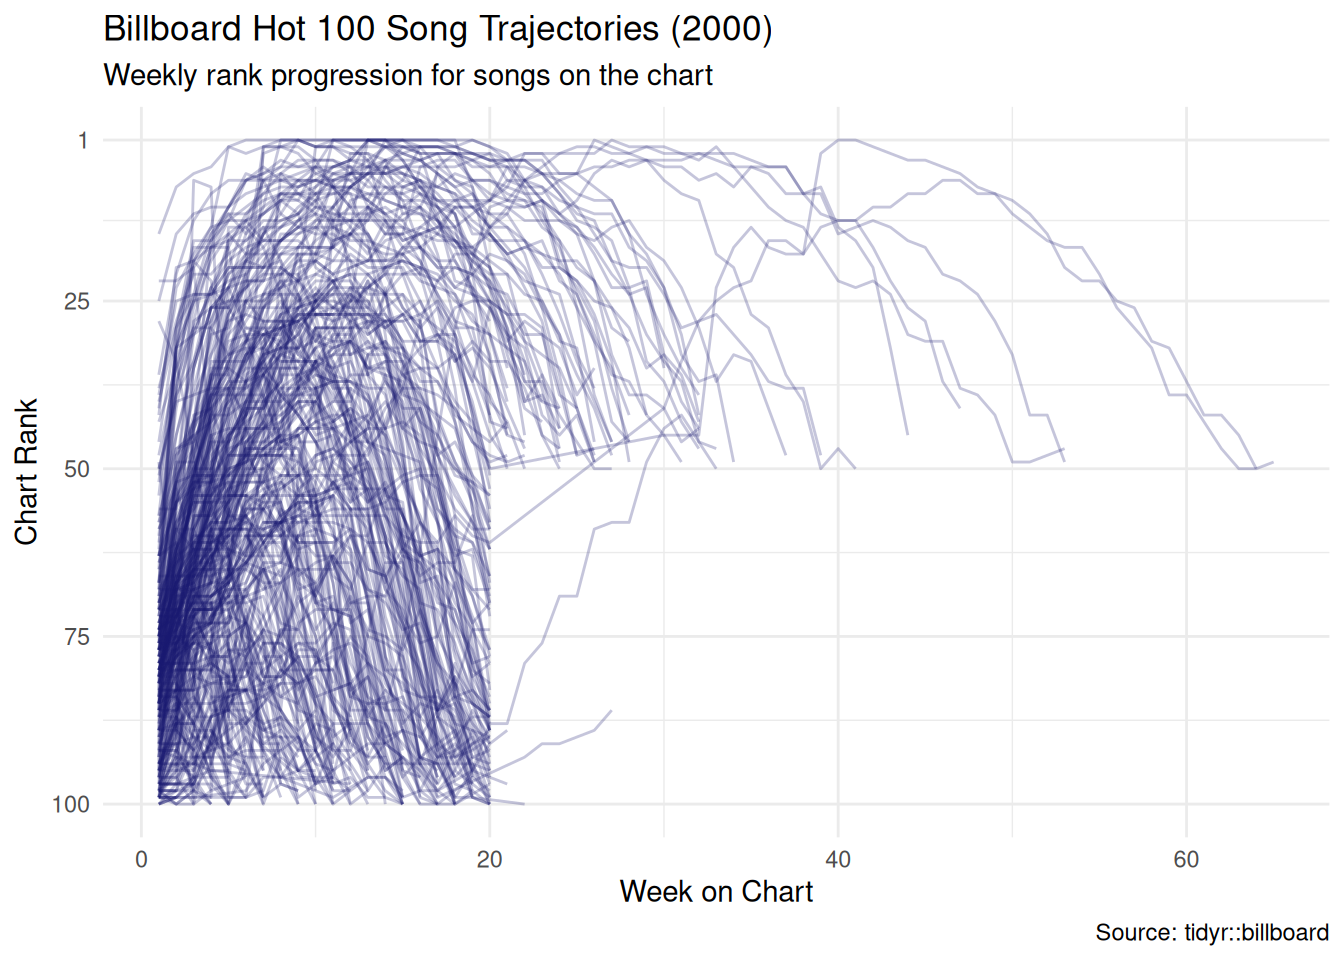
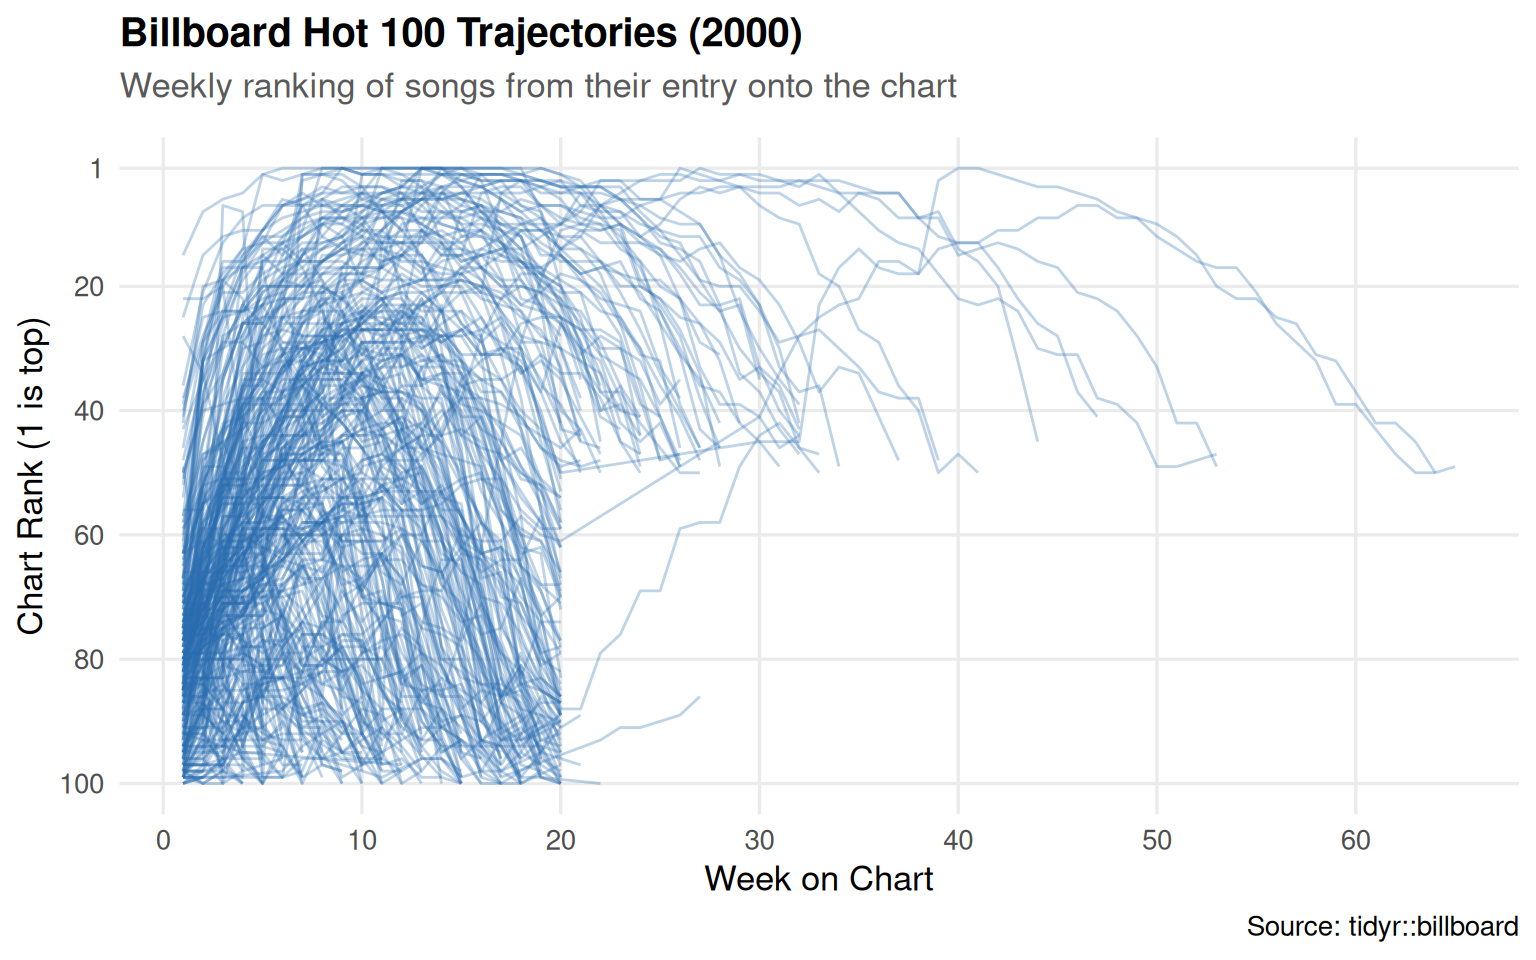
Built site for gh-pages

diff --git a/index.html b/index.html
@@ -26,41 +26,6 @@ ul.task-list li input[type="checkbox"] {
   margin: 0 0.8em 0.2em -1em; /* quarto-specific, see https://github.com/quarto-dev/quarto-cli/issues/4556 */ 
   vertical-align: middle;
 }
-/* CSS for syntax highlighting */
-html { -webkit-text-size-adjust: 100%; }
-pre > code.sourceCode { white-space: pre; position: relative; }
-pre > code.sourceCode > span { display: inline-block; line-height: 1.25; }
-pre > code.sourceCode > span:empty { height: 1.2em; }
-.sourceCode { overflow: visible; }
-code.sourceCode > span { color: inherit; text-decoration: inherit; }
-div.sourceCode { margin: 1em 0; }
-pre.sourceCode { margin: 0; }
-@media screen {
-div.sourceCode { overflow: auto; }
-}
-@media print {
-pre > code.sourceCode { white-space: pre-wrap; }
-pre > code.sourceCode > span { text-indent: -5em; padding-left: 5em; }
-}
-pre.numberSource code
-  { counter-reset: source-line 0; }
-pre.numberSource code > span
-  { position: relative; left: -4em; counter-increment: source-line; }
-pre.numberSource code > span > a:first-child::before
-  { content: counter(source-line);
-    position: relative; left: -1em; text-align: right; vertical-align: baseline;
-    border: none; display: inline-block;
-    -webkit-touch-callout: none; -webkit-user-select: none;
-    -khtml-user-select: none; -moz-user-select: none;
-    -ms-user-select: none; user-select: none;
-    padding: 0 4px; width: 4em;
-  }
-pre.numberSource { margin-left: 3em;  padding-left: 4px; }
-div.sourceCode
-  {   }
-@media screen {
-pre > code.sourceCode > span > a:first-child::before { text-decoration: underline; }
-}
 </style>
 
 
@@ -174,34 +139,11 @@ pre > code.sourceCode > span > a:first-child::before { text-decoration: underlin
 </header>
 
 
-<div class="cell">
-<div class="code-copy-outer-scaffold"><div class="sourceCode cell-code" id="cb1"><pre class="sourceCode r code-with-copy"><code class="sourceCode r"><span id="cb1-1"><a href="#cb1-1" aria-hidden="true" tabindex="-1"></a><span class="fu">library</span>(tidyverse)</span></code></pre></div><button title="Copy to Clipboard" class="code-copy-button"><i class="bi"></i></button></div>
-</div>
-<div class="cell">
-<div class="code-copy-outer-scaffold"><div class="sourceCode cell-code" id="cb2"><pre class="sourceCode r code-with-copy"><code class="sourceCode r"><span id="cb2-1"><a href="#cb2-1" aria-hidden="true" tabindex="-1"></a>billboard <span class="sc">|&gt;</span></span>
-<span id="cb2-2"><a href="#cb2-2" aria-hidden="true" tabindex="-1"></a>  <span class="fu">pivot_longer</span>(</span>
-<span id="cb2-3"><a href="#cb2-3" aria-hidden="true" tabindex="-1"></a>    <span class="at">cols =</span> <span class="fu">starts_with</span>(<span class="st">"wk"</span>),</span>
-<span id="cb2-4"><a href="#cb2-4" aria-hidden="true" tabindex="-1"></a>    <span class="at">names_to =</span> <span class="st">"week"</span>,</span>
-<span id="cb2-5"><a href="#cb2-5" aria-hidden="true" tabindex="-1"></a>    <span class="at">values_to =</span> <span class="st">"rank"</span>,</span>
-<span id="cb2-6"><a href="#cb2-6" aria-hidden="true" tabindex="-1"></a>    <span class="at">names_prefix =</span> <span class="st">"wk"</span>,</span>
-<span id="cb2-7"><a href="#cb2-7" aria-hidden="true" tabindex="-1"></a>    <span class="at">names_transform =</span> as.integer,</span>
-<span id="cb2-8"><a href="#cb2-8" aria-hidden="true" tabindex="-1"></a>    <span class="at">values_drop_na =</span> <span class="cn">TRUE</span></span>
-<span id="cb2-9"><a href="#cb2-9" aria-hidden="true" tabindex="-1"></a>  ) <span class="sc">|&gt;</span></span>
-<span id="cb2-10"><a href="#cb2-10" aria-hidden="true" tabindex="-1"></a>  <span class="fu">ggplot</span>(<span class="fu">aes</span>(<span class="at">x =</span> week, <span class="at">y =</span> rank, <span class="at">group =</span> track)) <span class="sc">+</span></span>
-<span id="cb2-11"><a href="#cb2-11" aria-hidden="true" tabindex="-1"></a>  <span class="fu">geom_line</span>(<span class="at">alpha =</span> <span class="fl">0.25</span>, <span class="at">color =</span> <span class="st">"midnightblue"</span>) <span class="sc">+</span></span>
-<span id="cb2-12"><a href="#cb2-12" aria-hidden="true" tabindex="-1"></a>  <span class="fu">scale_y_reverse</span>(<span class="at">breaks =</span> <span class="fu">c</span>(<span class="dv">1</span>, <span class="dv">25</span>, <span class="dv">50</span>, <span class="dv">75</span>, <span class="dv">100</span>)) <span class="sc">+</span></span>
-<span id="cb2-13"><a href="#cb2-13" aria-hidden="true" tabindex="-1"></a>  <span class="fu">labs</span>(</span>
-<span id="cb2-14"><a href="#cb2-14" aria-hidden="true" tabindex="-1"></a>    <span class="at">title =</span> <span class="st">"Billboard Hot 100 Song Trajectories (2000)"</span>,</span>
-<span id="cb2-15"><a href="#cb2-15" aria-hidden="true" tabindex="-1"></a>    <span class="at">subtitle =</span> <span class="st">"Weekly rank progression for songs on the chart"</span>,</span>
-<span id="cb2-16"><a href="#cb2-16" aria-hidden="true" tabindex="-1"></a>    <span class="at">x =</span> <span class="st">"Week on Chart"</span>,</span>
-<span id="cb2-17"><a href="#cb2-17" aria-hidden="true" tabindex="-1"></a>    <span class="at">y =</span> <span class="st">"Chart Rank"</span>,</span>
-<span id="cb2-18"><a href="#cb2-18" aria-hidden="true" tabindex="-1"></a>    <span class="at">caption =</span> <span class="st">"Source: tidyr::billboard"</span></span>
-<span id="cb2-19"><a href="#cb2-19" aria-hidden="true" tabindex="-1"></a>  ) <span class="sc">+</span></span>
-<span id="cb2-20"><a href="#cb2-20" aria-hidden="true" tabindex="-1"></a>  <span class="fu">theme_minimal</span>()</span></code></pre></div><button title="Copy to Clipboard" class="code-copy-button"><i class="bi"></i></button></div>
+<div class="cell" data-layout-align="center">
 <div class="cell-output-display">
-<div>
+<div class="quarto-figure quarto-figure-center">
 <figure class="figure">
-<p><img src="index_files/figure-html/unnamed-chunk-2-1.png" class="img-fluid figure-img" width="672"></p>
+<p><img src="index_files/figure-html/unnamed-chunk-2-1.png" class="img-fluid quarto-figure quarto-figure-center figure-img" width="768"></p>
 </figure>
 </div>
 </div>
@@ -283,7 +225,7 @@ pre > code.sourceCode > span > a:first-child::before { text-decoration: underlin
     }
       var localhostRegex = new RegExp(/^(?:http|https):\/\/localhost\:?[0-9]*\//);
       var mailtoRegex = new RegExp(/^mailto:/);
-        var filterRegex = new RegExp('/' + window.location.host + '/');
+        var filterRegex = new RegExp("https:\/\/nikiwalkor83\.github\.io\/websites2\/");
       var isInternal = (href) => {
           return filterRegex.test(href) || localhostRegex.test(href) || mailtoRegex.test(href);
       }

diff --git a/about.html b/about.html
@@ -217,7 +217,7 @@ ul.task-list li input[type="checkbox"] {
     }
       var localhostRegex = new RegExp(/^(?:http|https):\/\/localhost\:?[0-9]*\//);
       var mailtoRegex = new RegExp(/^mailto:/);
-        var filterRegex = new RegExp('/' + window.location.host + '/');
+        var filterRegex = new RegExp("https:\/\/nikiwalkor83\.github\.io\/websites2\/");
       var isInternal = (href) => {
           return filterRegex.test(href) || localhostRegex.test(href) || mailtoRegex.test(href);
       }
